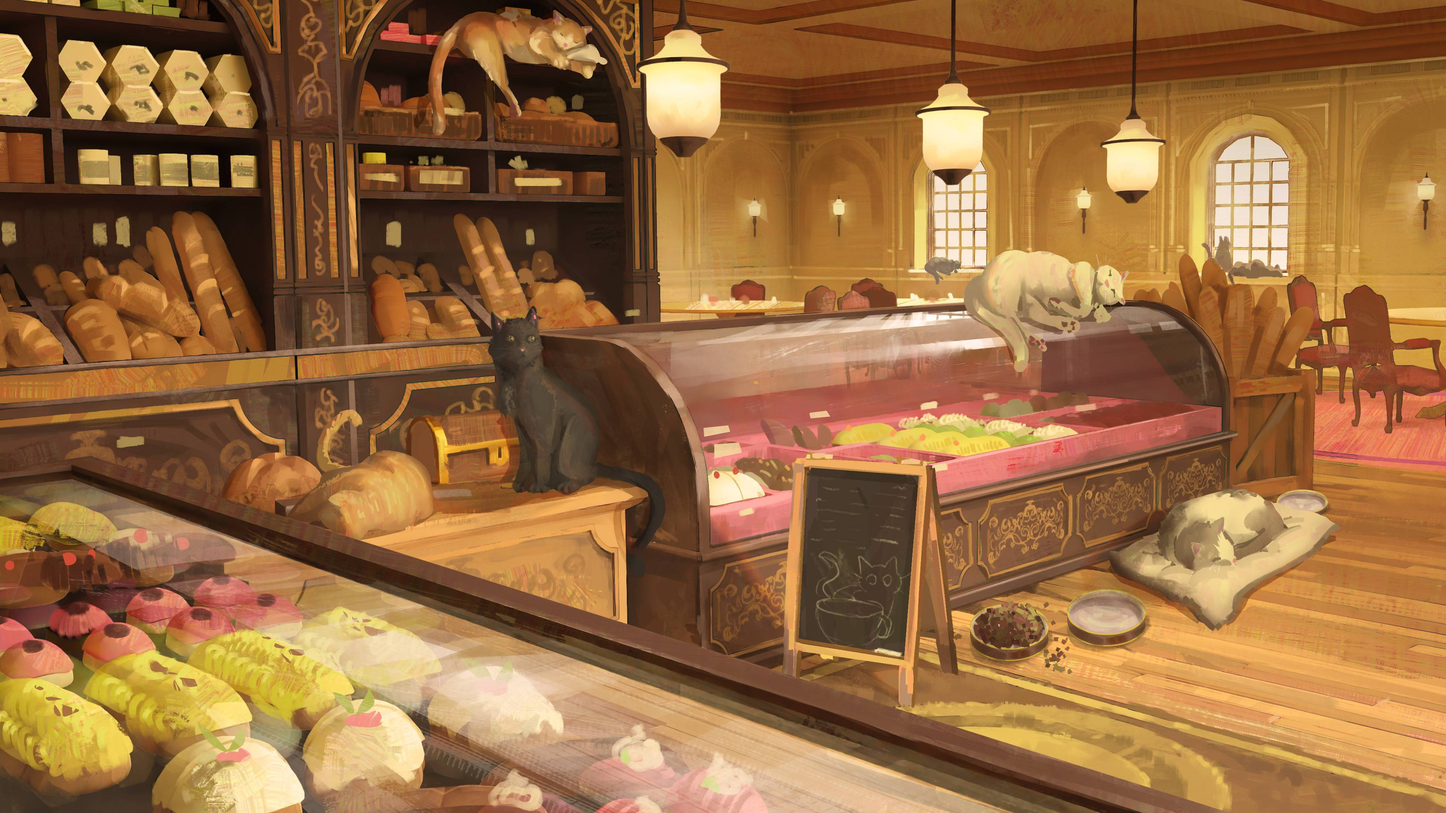
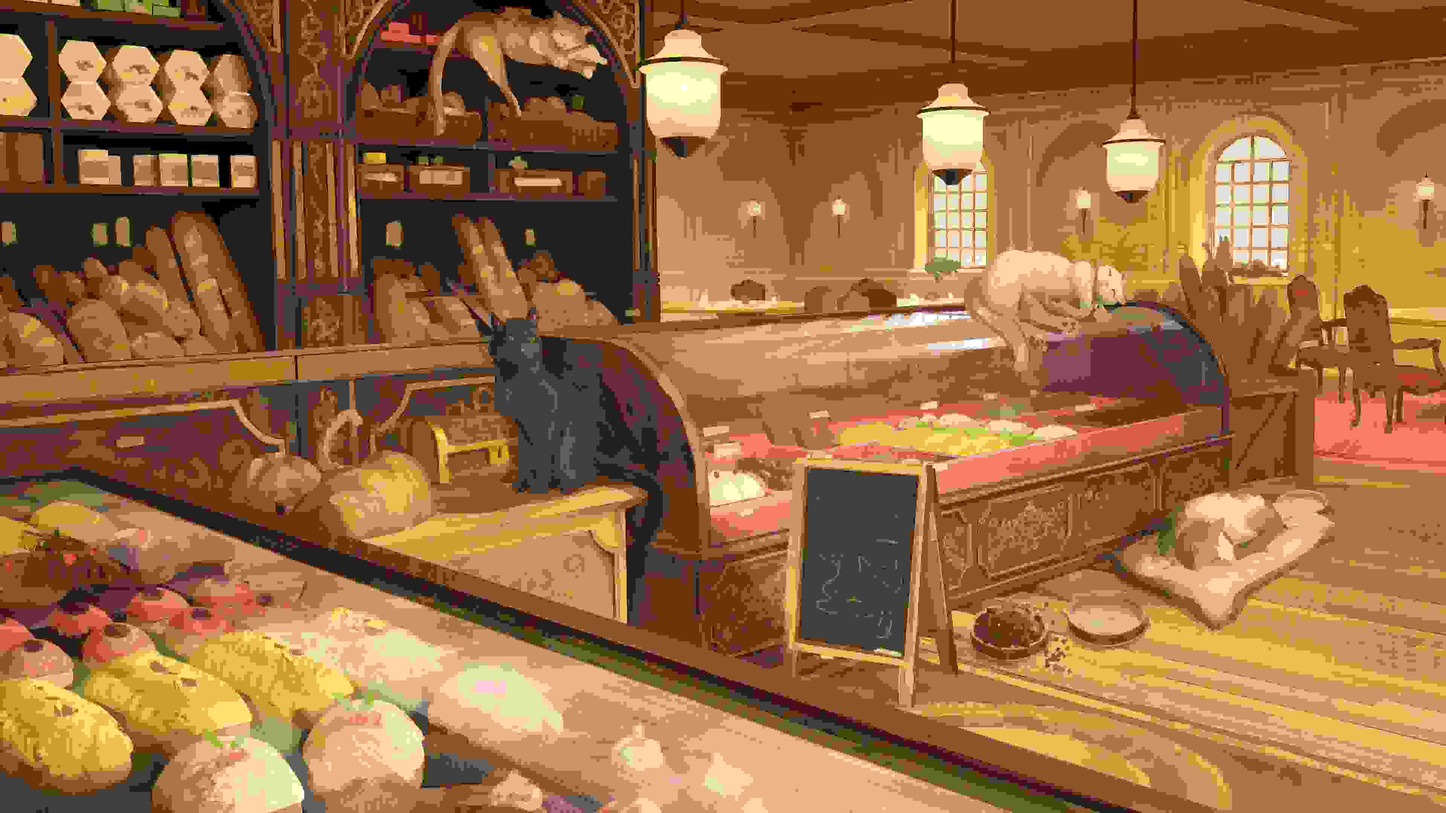
Admin: update image config for statue-heist

diff --git a/adventures/statue-heist/links.js b/adventures/statue-heist/links.js
@@ -1,14 +1,29 @@
 window.AdventureLinks = {
-  "locations-boss-room-jpg": {
+  "locations-boss-room-jpg-v-1776781602544": {
     lowres: true,
     lowresSrc: "images/locations/boss-room-lowres.jpg?v=1776781602544"
   },
-  "locations-hunting-guild-jpg": {
+  "locations-hunting-guild-jpg-v-1776781889952": {
     lowres: true,
     lowresSrc: "images/locations/hunting-guild-lowres.jpg?v=1776781889952"
   },
-  "locations-bakery-jpg": {
+  "locations-bakery-jpg-v-1776781976546": {
+    url: "https://www.czepeku.com/fantasy/scenes/pastoral-village-stables",
     lowres: true,
-    lowresSrc: "images/locations/bakery-lowres.jpg?v=1776781880641"
+    lowresSrc: "images/locations/bakery-lowres.jpg?v=1776781976546"
+  },
+  "locations-bakery-test-jpg": {
+    url: "epeku.com/fantasy/scenes/pastoral-village-stables",
+    lowres: true,
+    lowresSrc: "images/locations/bakery-test-lowres.jpg?v=1776792017756"
+  },
+  "locations-bakery-jpg": {
+    url: "epeku.com/fantasy/scenes/pastoral-village-stables",
+    lowres: true,
+    lowresSrc: "images/locations/bakery-lowres.jpg?v=1776792028370"
+  },
+  "locations-boss-room-jpg": {
+    lowres: true,
+    lowresSrc: "images/locations/boss-room-lowres.jpg?v=1776792285924"
   }
 };

diff --git a/_admin/server.js b/_admin/server.js
@@ -122,7 +122,7 @@ app.post('/api/lowres', async (req, res) => {
     fs.mkdirSync(path.dirname(destPath), { recursive: true });
 
     await sharp(srcPath)
-      .jpeg({ quality: 70 })
+      .jpeg({ quality: 50 })
       .toFile(destPath);
 
     res.json({ lowresSrc: `images/${lowresRel}?v=${Date.now()}` });
